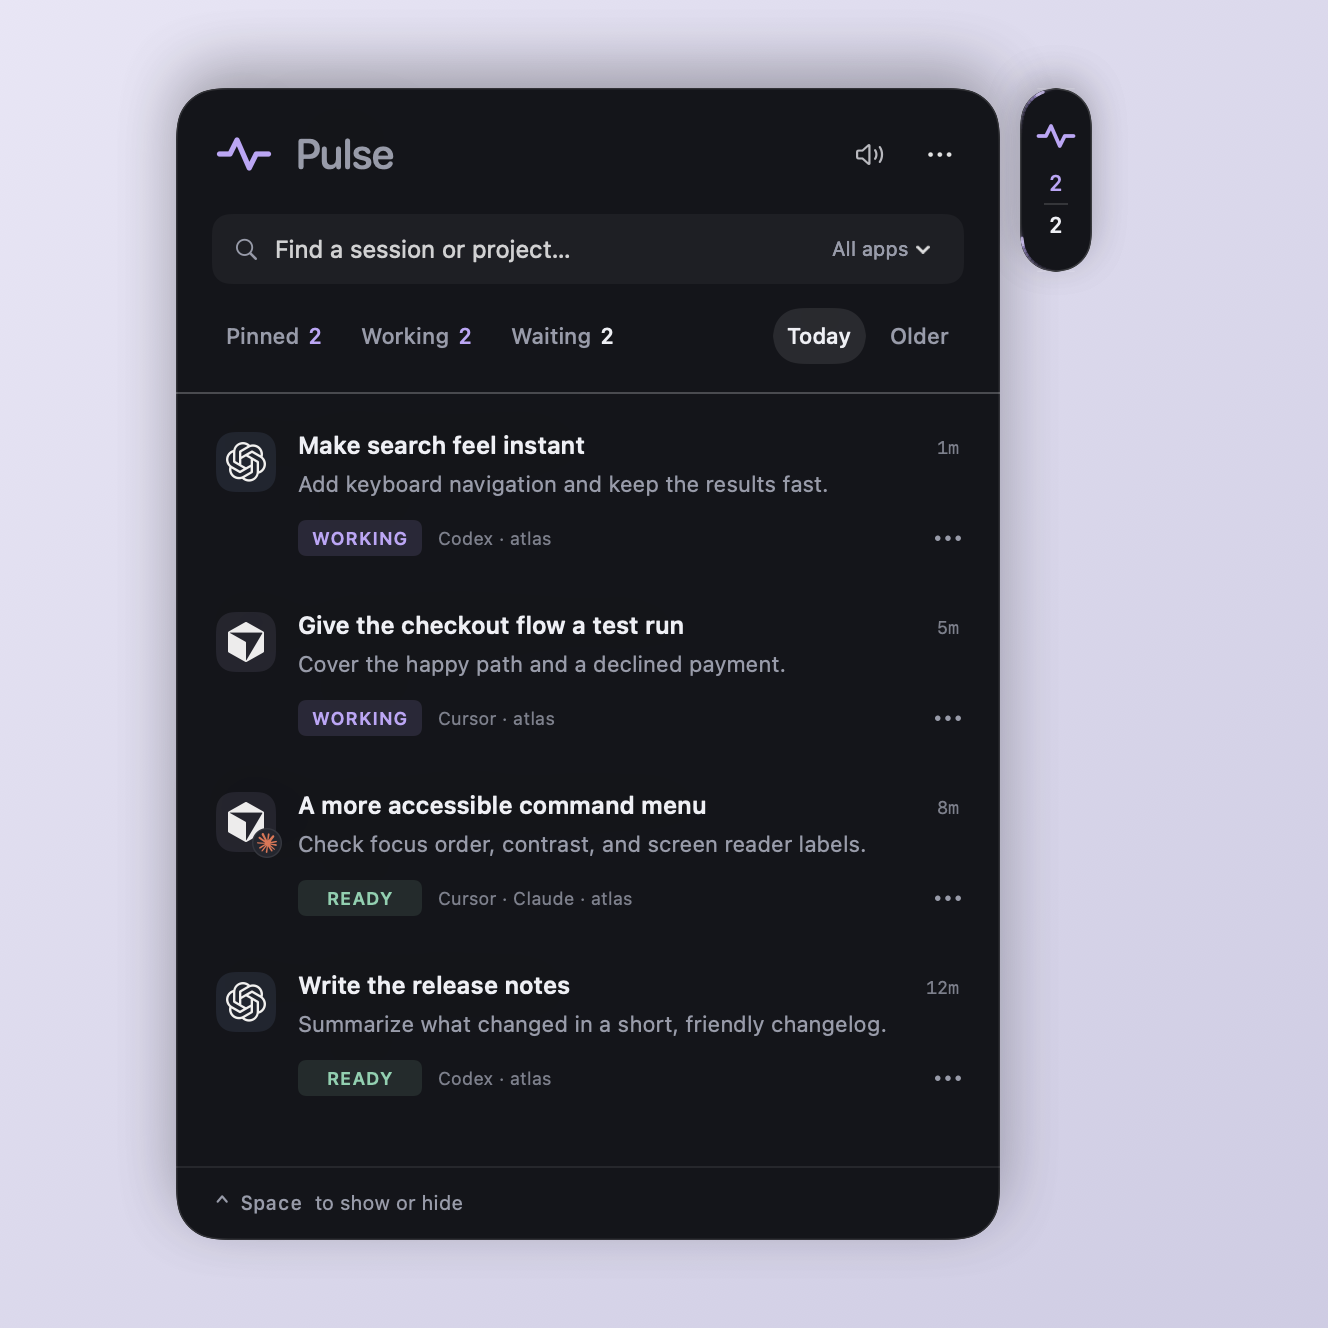
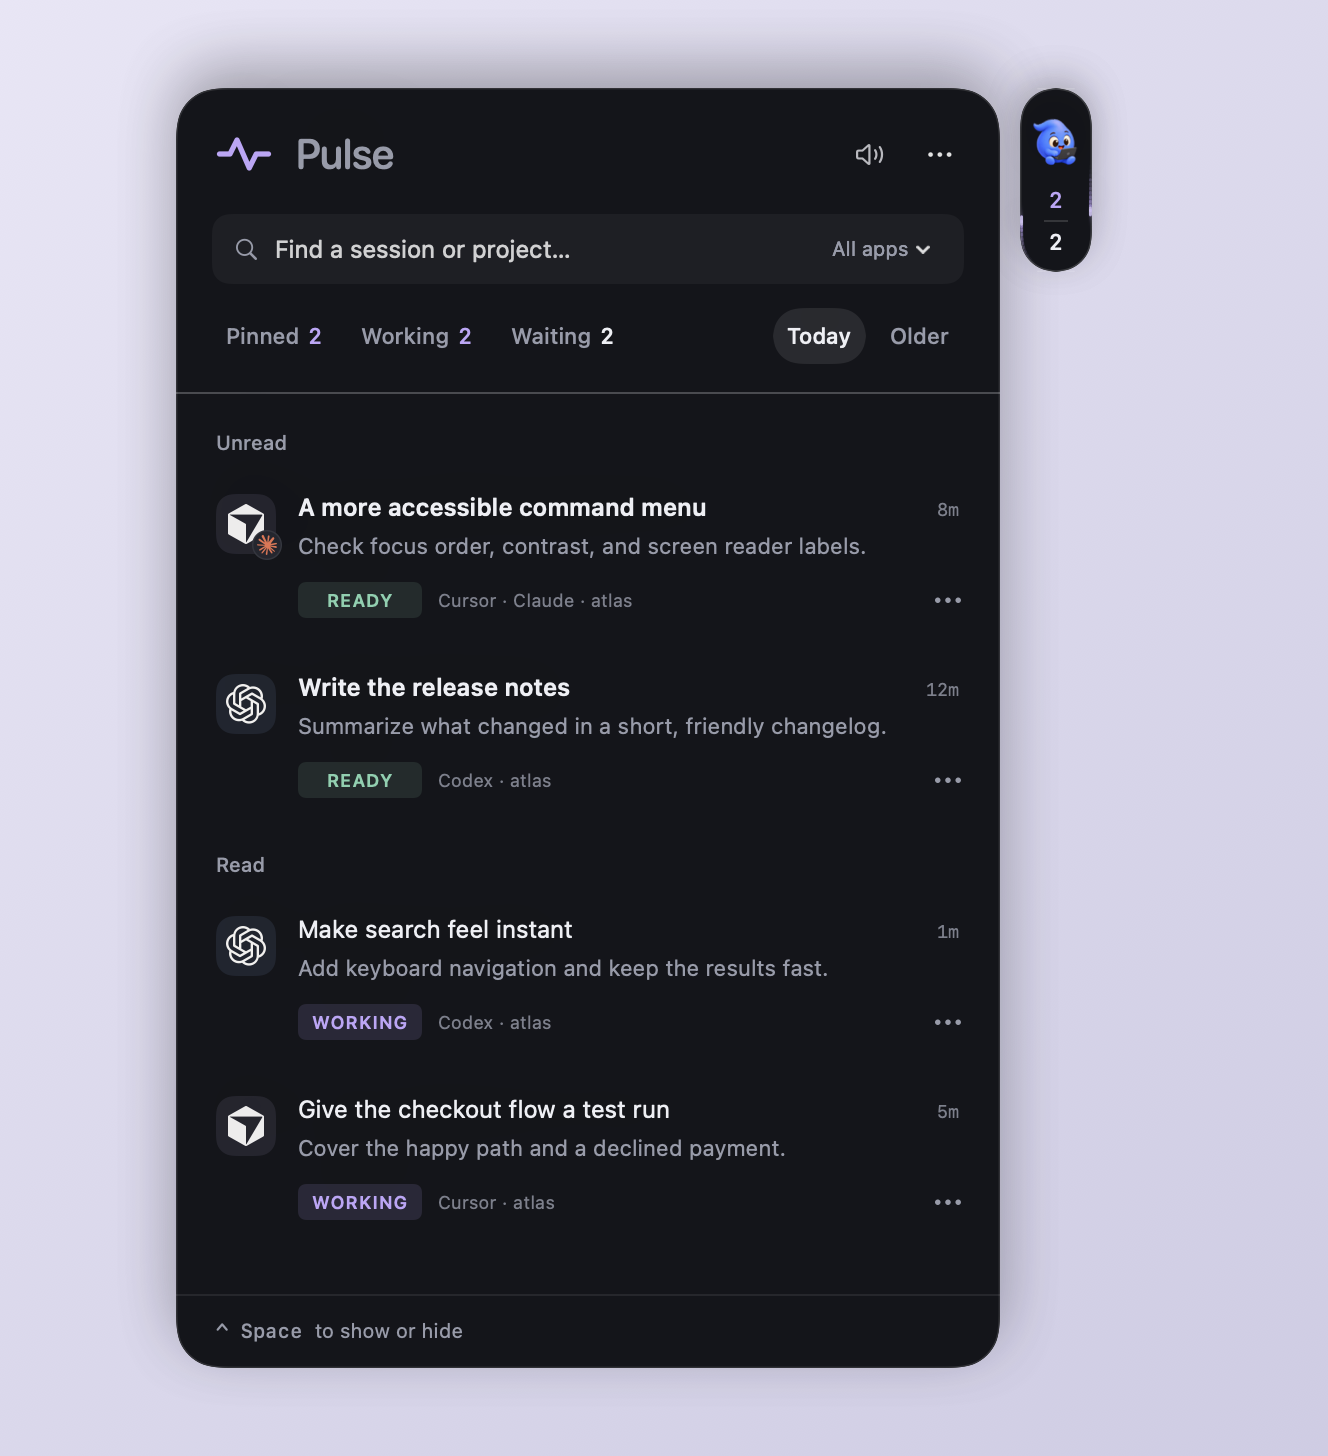
Add blue comet mascot experiment and refresh screenshots

diff --git a/Sources/Pulse/CometArtwork.swift b/Sources/Pulse/CometArtwork.swift
@@ -1,0 +1,58 @@
+import AppKit
+import SwiftUI
+
+/// Rendered pose experiment. Motion is deliberately subtle, not skeletal animation.
+struct CometArtwork: View {
+    enum Mood: Equatable { case idle, working, ready }
+    let mood: CometArtwork.Mood
+    @Environment(\.accessibilityReduceMotion) private var reduceMotion
+    @State private var visible = false
+
+    var body: some View {
+        TimelineView(.animation(minimumInterval: 1.0 / 15, paused: reduceMotion || !visible)) { timeline in
+            let time = timeline.date.timeIntervalSinceReferenceDate
+            let period = mood == .working ? 2.8 : 5.6
+            let phase = time * .pi * 2 / period
+            // Mix slow, unequal cycles for gentle variation without random jumps.
+            let rawSway = sin(phase + 0.28 * sin(phase * 0.23))
+                * (0.65 + 0.20 * sin(phase * 0.37))
+            let sway = reduceMotion ? 0 : rawSway * (rawSway < 0 ? 0.55 : 0.8)
+            let drift = reduceMotion ? 0 : 0.65 * sin(phase * 0.81 + .pi / 3)
+                + 0.15 * sin(phase * 0.31)
+            let tilt = reduceMotion ? 0 : sway * 1.8 + 0.3 * sin(phase * 0.43)
+            let intensity = mood == .working ? 1.0 : 0.45
+            Image(nsImage: CometPoseAtlas.image(mood))
+                .resizable().interpolation(.high).scaledToFit()
+                // Keep the layout slot fixed so counts and pill geometry never move.
+                .scaleEffect(x: 0.8 * (1 - drift * 0.006),
+                             y: 0.8 * (1 + drift * 0.012), anchor: .bottom)
+                .rotationEffect(.degrees(tilt * intensity), anchor: .bottom)
+                .offset(x: sway * 0.45 * intensity, y: drift * 0.4 * intensity)
+        }
+        .onAppear { visible = true }
+        .onDisappear { visible = false }
+        .accessibilityHidden(true)
+    }
+}
+
+@MainActor
+private enum CometPoseAtlas {
+    static let poses: [NSImage] = {
+        guard let url = Bundle.module.url(forResource: "comet-poses", withExtension: "png", subdirectory: "Comet"),
+              let atlas = NSImage(contentsOf: url) else { return [] }
+        let side = atlas.size.width / 3
+        // Draw one cell from the bundled atlas without altering the original artwork.
+        return (0..<3).map { index in
+            NSImage(size: NSSize(width: side, height: atlas.size.height), flipped: false) { destination in
+                atlas.draw(in: destination,
+                           from: NSRect(x: CGFloat(index) * side, y: 0, width: side, height: atlas.size.height),
+                           operation: .sourceOver, fraction: 1, respectFlipped: true, hints: [.interpolation: NSImageInterpolation.high])
+                return true
+            }
+        }
+    }()
+    static func image(_ mood: CometArtwork.Mood) -> NSImage {
+        let index = mood == .idle ? 0 : mood == .working ? 1 : 2
+        return poses.indices.contains(index) ? poses[index] : NSImage()
+    }
+}

diff --git a/scripts/screenshots/main.swift b/scripts/screenshots/main.swift
@@ -2,7 +2,9 @@ import AppKit
 import SwiftUI
 import PulseCore
 
-extension Notification.Name { static let resetShelf = Notification.Name("resetPulseScreenshot") }
+extension Notification.Name {
+    static let previewReplyBanner = Notification.Name("previewReplyBannerScreenshot")
+ static let resetShelf = Notification.Name("resetPulseScreenshot") }
 
 // Renders the actual app views with fictional data. No scanner, hooks, or personal
 // session storage is used. This entry point exists only in a temporary docs build.
@@ -16,6 +18,7 @@ enum ScreenshotMain {
         let output = URL(fileURLWithPath: CommandLine.arguments[1], isDirectory: true)
         try FileManager.default.createDirectory(at: output, withIntermediateDirectories: true)
         let now = Date()
+        UserDefaults(suiteName: "PulseDocumentationScreenshots")!.removePersistentDomain(forName: "PulseDocumentationScreenshots")
         let store = SessionStore()
         func session(_ provider: Provider, _ id: String, _ title: String, _ prompt: String,
                      _ state: AgentState, minutes: Double, route: SessionRoute? = nil) -> Session {
@@ -52,7 +55,7 @@ enum ScreenshotMain {
     @MainActor
     static func render(_ store: SessionStore, style: Style, to url: URL) throws {
         let size = NSSize(width: style == .overview ? 664 : 500,
-                          height: style == .overview ? 664 : 500)
+                          height: style == .overview ? 728 : 580)
         let pixels = NSSize(width: size.width * 2, height: size.height * 2)
         let view = NSHostingView(rootView: ScreenshotStage(store: store, overview: style == .overview)
             .frame(width: size.width, height: size.height)
@@ -88,7 +91,7 @@ private struct ScreenshotStage: View {
                                     Color(red: 0.81, green: 0.80, blue: 0.89)],
                            startPoint: .topLeading, endPoint: .bottomTrailing)
             ShelfView(store: store, onHover: { _ in }, onDragChange: { _ in nil })
-                .frame(width: 436, height: overview ? 600 : 436)
+                .frame(width: 436, height: overview ? 664 : 516)
                 .shadow(color: .black.opacity(0.17), radius: 16, y: 10)
                 .offset(x: overview ? 76 : 32, y: 32)
             if overview {

diff --git a/Sources/Pulse/App.swift b/Sources/Pulse/App.swift
@@ -33,16 +33,6 @@ enum PulseMain {
     }
 }
 
-final class ShelfPanel: NSPanel {
-    var followsDragPointer = false
-    override var canBecomeKey: Bool { true }
-    override var canBecomeMain: Bool { false }
-    override func constrainFrameRect(_ frameRect: NSRect, to screen: NSScreen?) -> NSRect {
-        // The combined window can cross a screen edge while its pill remains onscreen.
-        // AppKit's vertical window constraints must not fight the pointer during a drag.
-        followsDragPointer ? frameRect : super.constrainFrameRect(frameRect, to: screen)
-    }
-}
 
 @MainActor
 final class AppDelegate: NSObject, NSApplicationDelegate, NSWindowDelegate {

diff --git a/Sources/Pulse/ShelfPanel.swift b/Sources/Pulse/ShelfPanel.swift
@@ -1,0 +1,13 @@
+import AppKit
+
+final class ShelfPanel: NSPanel {
+    var followsDragPointer = false
+    override var canBecomeKey: Bool { true }
+    override var canBecomeMain: Bool { false }
+    override func constrainFrameRect(_ frameRect: NSRect, to screen: NSScreen?) -> NSRect {
+        // The combined window can cross a screen edge while its pill remains onscreen.
+        // AppKit's vertical window constraints must not fight the pointer during a drag.
+        followsDragPointer ? frameRect : super.constrainFrameRect(frameRect, to: screen)
+    }
+}
+

diff --git a/Sources/Pulse/ShelfView.swift b/Sources/Pulse/ShelfView.swift
@@ -623,7 +623,8 @@ struct ShelfPillView: View {
     }
     private var pillContent: some View {
         VStack(spacing: 9) {
-            PulseLogo().frame(width: 21, height: 15)
+            CometArtwork(mood: store.runningCount > 0 ? .working : store.attentionCount > 0 ? .ready : .idle)
+                .frame(width: 32, height: 32).allowsHitTesting(false)
             VStack(spacing: 3) {
                 Text("\(store.runningCount)").foregroundStyle(Ink.working)
                 Rectangle().fill(.white.opacity(0.14)).frame(width: 12, height: 1)

diff --git a/Package.swift b/Package.swift
@@ -8,7 +8,7 @@ let package = Package(
     targets: [
         .systemLibrary(name: "CSQLite"),
         .target(name: "PulseCore", dependencies: ["CSQLite"]),
-        .executableTarget(name: "Pulse", dependencies: ["PulseCore"], resources: [.copy("Resources/Logos")]),
+        .executableTarget(name: "Pulse", dependencies: ["PulseCore"], resources: [.copy("Resources/Logos"), .copy("Resources/Comet")]),
         .testTarget(name: "PulseCoreTests", dependencies: ["PulseCore", "CSQLite"])
     ]
 )
